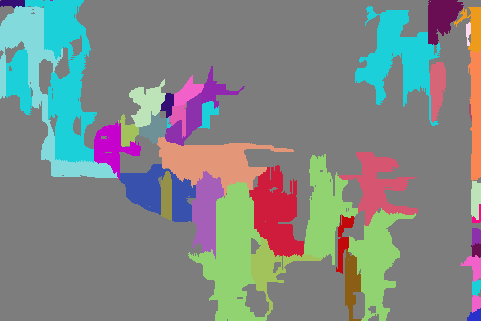
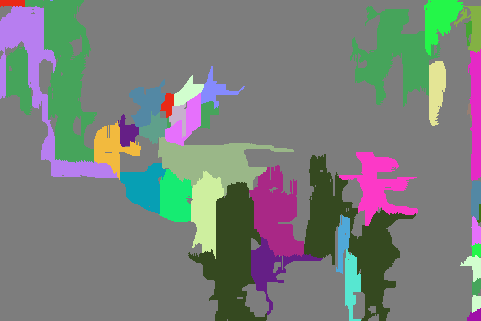
Fixed watersheds and cleaned code

diff --git a/main.py b/main.py
@@ -21,10 +21,11 @@ def main(argv):
     # assume a square kernel
     kernel_size = 9
     sigma = 3
-    image = 'img/test.png'
+    image = 'img/elk.png'
     verbose = False
     connect = 4
     minima = 1000
+    mini_test = False
     
     for opt, arg in opts:
         print(opt, arg)
@@ -43,16 +44,6 @@ def main(argv):
             except ValueError:
                 print("Kernel size must be an integer")
                 sys.exit(2)
-        elif opt == '-t':
-            try:
-                threshold[0] = int(arg.rsplit(",")[0])
-                threshold[1] = int(arg.rsplit(",")[1])
-            except ValueError:
-                print("Threshold values must be integers")
-                sys.exit(2)
-            except IndexError:
-                print("Single-value threshold: {}".format(threshold[0]))
-                threshold[1] = threshold[0]
         elif opt == '-i':
             if "elk" in arg.lower():
                 image = 'img/elk.jpg'
@@ -96,6 +87,9 @@ def main(argv):
                     connect = 4
             except:
                 print("Connectedness must be '4' or '8'")
+                
+                
+    file_suffix = '_m_' + str(minima) + '_c_' + str(connect) + '_s_' + str(sigma) + '_k_' + str(kernel_size) + '_' + image.rsplit("/", 1)[1].rsplit(".", 1)[0] + '.png'
             
     
     if kernel_size % 2 == 1:
@@ -120,8 +114,12 @@ def main(argv):
     end = timer()
     print("\nTime taken for preprocessing: {0:.3f}".format(end - start))
         
+    if mini_test:
+        x = np.array([[53,52,51,53,52,51,53,50,51],[49,50,49,51,40,41,39,41,40],[48,47,12,12,18,19,16,15,20],[46,41,12,12,19,20,17,15,16],[45,42,12,15,18,17,19,17,18],[46,44,43,44,41,16,18,20,19]])
+        print(x)
+        
     # find minima
-    L = np.zeros(x.shape)+1
+    L = (np.zeros(x.shape)+1).astype(int)
     change_in_label = True
     count = 0
     start = timer()
@@ -131,7 +129,7 @@ def main(argv):
         for i in range(0, x.shape[0]):
             for j in range(0, x.shape[1]):
                 if L[i,j] != 0:
-                    for q in neighbors((i,j), x):
+                    for q in neighbors(x, (i,j)):
                         if x[i,j] > x[q]: 
                             # if p>q it cannot be minima
                             L[i,j] = 0
@@ -143,6 +141,10 @@ def main(argv):
     end = timer()
     print("\nTime taken to find minima: {0:.3f}".format(end - start))
     
+    if mini_test:
+        print(x)
+        print(L)
+    
     # save image with minima
     if verbose:
         print("Minima-finding iterations: {}".format(count))
@@ -151,7 +153,7 @@ def main(argv):
             for j in range(0, x.shape[1]):
                 if L[i,j] == 1:
                     xtc[i, j] = (0, 0, 255)
-        cv2.imwrite('out/minima.png', xtc)
+        cv2.imwrite('out/minima' + file_suffix, xtc)
         
     # grow drain interiors
     start = timer()
@@ -176,6 +178,10 @@ def main(argv):
     end = timer()
     print("\nTime taken to grow drains: {0:.3f}".format(end - start))
     
+    if mini_test:
+        print(x)
+        print(L)
+    
     rand_bgr = np.random.randint(255, size=(num_drains, 3))
     if verbose:
         print("Number of drains: {}".format(num_drains))
@@ -184,77 +190,63 @@ def main(argv):
             for j in range(0, x.shape[1]):
                 if L[i,j] > 0:
                     xtc[i, j] = (rand_bgr[int(L[i,j])-1, 0], rand_bgr[int(L[i,j])-1, 1], rand_bgr[int(L[i,j])-1, 2])
-        cv2.imwrite('out/drains.png', xtc)
+        cv2.imwrite('out/drains' + file_suffix, xtc)
     
     # prep V structure
+    start = timer()
     Vl = []
     Vv = []
     for i in range(x.shape[0]):
         for j in range(x.shape[1]):
             # make lists of coordinates and their values
-            if L[i,j] == 0:
+            not_interior_flag = False
+            for q in neighbors(L, (i,j), connectedness=connect):
+                if L[q] == 0:
+                    not_interior_flag = True
+                    break
+            if not_interior_flag:
                 Vl.append((i,j))
                 Vv.append(x[i,j])
                 
     # sort the pixel coordinate list by the brightness
     V = [e for _,e in sorted(zip(Vv,Vl))]
     
+    end = timer()
+    print("\nTime taken to prep sorted queue: {0:.3f}".format(end - start))
+    
     # fill basins
     start = timer()
+    mask = copy.deepcopy(x)
     while V:
         p = V.pop(0)
+        if L[p] == 0:
+            continue
         
-        # find drain label
-        for q in neighbors(p,L,connectedness=connect):
-            try:
-                if L[q] > 0:
-                    L[p] = L[q]
-                    break
-            except IndexError:
-                print("p: {}\tq: {}".format(p,q))
-            
-        
-        # assign upstream pixels
-        # get all neighbors of p
-        for q in neighbors(p,x,connectedness=connect):
-            if q not in V:
-                break
-            slope = x[q] - x[p]
-            if q[0] != p[0] and q[1] != p[1]:
-                slope = slope / 1.414
-            # check if p downstream from q
-            maximal = True
-            for r in neighbors(q,x,connectedness=connect):
-                if r == p:
-                    continue
-                slopet = x[q] - x[r]
-                if q[0] != r[0] and q[1] != r[1]:
-                    slopet = slopet / 1.414
-                if slopet > slope:
-                    maximal = False
-                    break
-            if maximal:
-                #print(slope)
-                if L[q] > 0:
-                    # already labeled
-                    L[q] = num_drains + 1
-                    #print(L[q])
-                else:
+        for q in neighbors(mask, p, connect):
+            if is_upstream(mask, q, p, connect) and q in V:
+                if L[q] == 0:
                     L[q] = L[p]
-        #print(len(V))
+                elif L[q] > 0 and L[q] != L[p]:
+                    L[q] = num_drains+1
+                    V.pop(V.index(q))
+        # remove p from consideration without ruining function generality
+        mask[p] = 255
+        
     end = timer()
     print("\nTime taken to grow basins: {0:.3f}".format(end - start))
-        
+    
+    if mini_test:
+        print(x)
+        print(L)
+    
     xtc = cv2.cvtColor(np.array(copy.deepcopy(np.round(L, decimals=0)), dtype=np.uint8), cv2.COLOR_GRAY2RGB)
     for i in range(0, x.shape[0]):
         for j in range(0, x.shape[1]):
             if L[i,j] in drains:
                 xtc[i, j] = (rand_bgr[int(L[i,j])-1, 0], rand_bgr[int(L[i,j])-1, 1], rand_bgr[int(L[i,j])-1, 2])
             else:
-                if L[i,j] > num_drains:
-                    print("watershed")
                 xtc[i,j] = (125,125,125)
-    cv2.imwrite('out/basins.png', xtc)
+    cv2.imwrite('out/basins' + file_suffix, xtc)
     
     
     

diff --git a/utils.py b/utils.py
@@ -85,10 +85,10 @@ def Gaussian2D(size, sigma):
     return H
 
 
-def neighbors(pixelpos, image, connectedness=8):
+def neighbors(image, p, connectedness=8):
     X,Y = image.shape
-    x = pixelpos[0]
-    y = pixelpos[1]
+    x = p[0]
+    y = p[1]
     n = []
     #print(X,Y,x,y)
     if connectedness == 8:
@@ -138,7 +138,7 @@ def grow_regions(image, labels, unlabeled=0, connectedness=8):
                     while stack:
                         p = stack.pop(-1)
                         labels[p] = current_label
-                        for q in neighbors(p, labels, connectedness):
+                        for q in neighbors(labels, p, connectedness):
                             if labels[q] == unlabeled:
                                 labels[q] = current_label
                                 stack.append(q)
@@ -153,4 +153,64 @@ def grow_regions(image, labels, unlabeled=0, connectedness=8):
                 labels[i,j] = labels[i,j] - unlabeled
     return regions, vals
             
+
+def is_downstream(image, p, q, connectedness=8):
+    slopes = {}
+    for r in neighbors(image, q, connectedness):
+        # different distance for diagonal vs lateral neighbor
+        if r[0] == q[0] or r[1] == q[1]:
+            factor = 1
+        else:
+            factor = 1.414
+        slope = (image[q] - image[r]) / factor
+        slopes[r] = slope
+    if p == (2,2):
+        print(p, q, slopes)
+    if slopes[p] == max(slopes.values()):
+        return True
+    else:
+        return False
+        
+def is_upstream(image, p, q, connectedness=8):
+    return is_downstream(image, q, p, connectedness)
+
+
+def calc_downstream(image, p, V, connectedness=8):
+    # check only downstream neighbors still in V
+    ns = neighbors(image, p, connectedness)
+    qs = []
+    for n in ns:
+        if n in V:
+            qs.append(n)
+    
+    # get slopes for remaining neighbors
+    slopes = []    
+    for q in qs:
+        # different distance for diagonal vs lateral neighbor
+        if q[0] == p[0] or q[1] == p[1]:
+            factor = 1
+        else:
+            factor = 1.414
+            
+        # just get all the slopes in order
+        slopes.append((image[p]-image[q])/factor)
+    print(qs, slopes)
+    # build a return vector of all remaining neighbors with maximal slope
+    retv = []
+    for i in range(0, len(qs)):
+        if slopes[i] == max(slopes):
+            retv.append(qs[i])
+    return retv
+    
+    
+def calc_upstream(image, p, V, connectedness=8):
+    retv = []
+    for q in neighbors(image, p, connectedness):
+        # if p is downstream of q, q is upstream of p
+        print(q, calc_downstream(image, q, V, connectedness))
+        if p in calc_downstream(image, q, V, connectedness):
+            print(p)
+            retv.append(q)
+    return retv
+    
     
